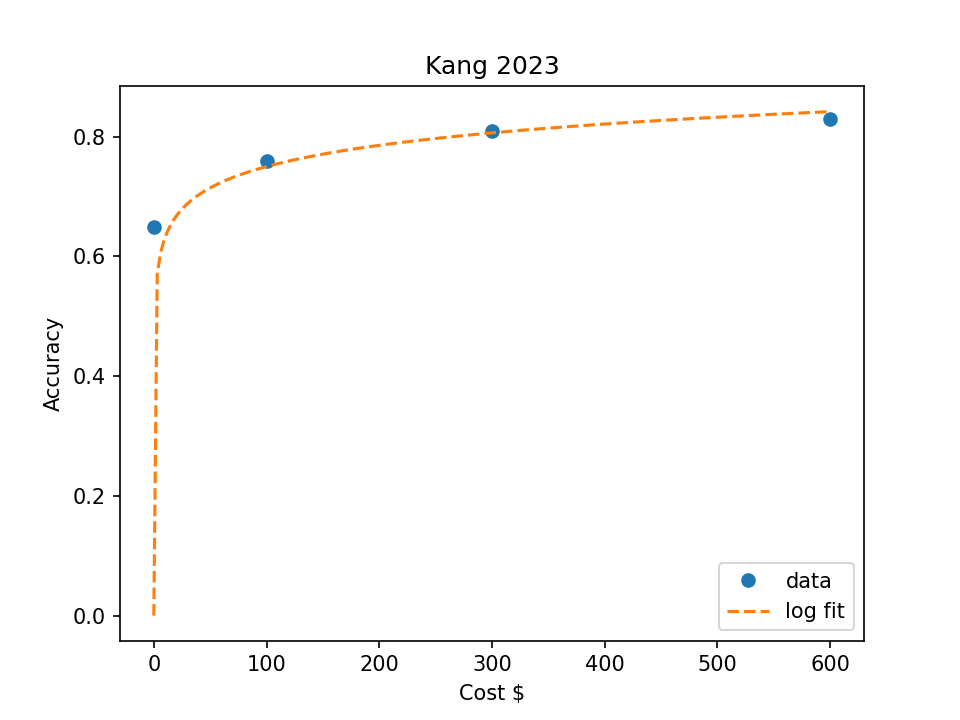
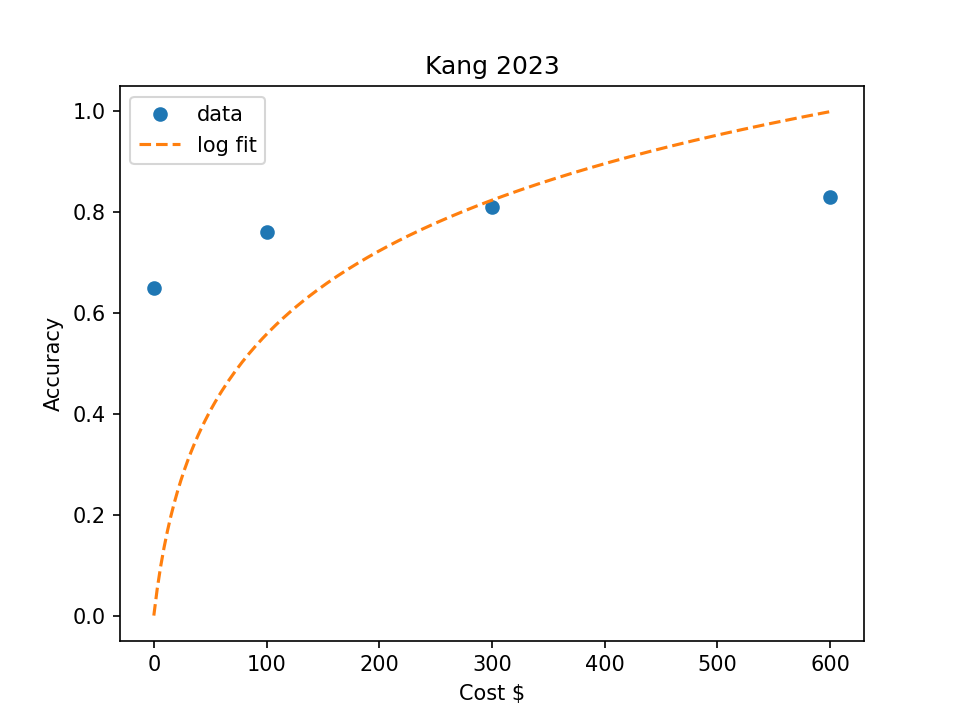
Updateing curves and log function

diff --git a/src/curves.py b/src/curves.py
@@ -17,17 +17,24 @@ def log_model(x: np.ndarray, a: float, b: float) -> np.ndarray:
     return a * np.log1p(b * x)          # log1p is numerically safer
 
 
-from sklearn.metrics import root_mean_squared_error
+from scipy.optimize import minimize, Bounds
 
 def fit_log_curve(x, y):
     x, y = np.asarray(x, float), np.asarray(y, float)
+    
+    def loss(p):
+        a,b = p
+        return np.sum((log_model(x, a, b) - y)**2)
 
-    # Fit as before...
-    res = minimize(lambda p: np.sum((log_model(x, *p) - y)**2),
-                   x0=(1.0, 0.01), bounds=((0,None),(0,None)))
-    a, b = res.x
+    # sensible initial guess
+    a0 = y.max()*1.05          # just above the plateau
+    b0 = 5.0 / (np.mean(x)+1)  # bends the knee around the middle
 
-    y_hat = log_model(x, a, b)
-    rmse  = root_mean_squared_error(y, y_hat)  # ← replace R²
-    return a, b, rmse
+    # hard lower bound keeps b ≥ 1e-4
+    bounds = Bounds([0.3*a0, 1e-4], [2.0*a0, 1e3])
+
+    res   = minimize(loss, x0=(a0, b0), bounds=bounds)
+    a,b   = res.x
+    rmse  = np.sqrt(loss((a,b))/len(x))
+    return a,b,rmse
 
